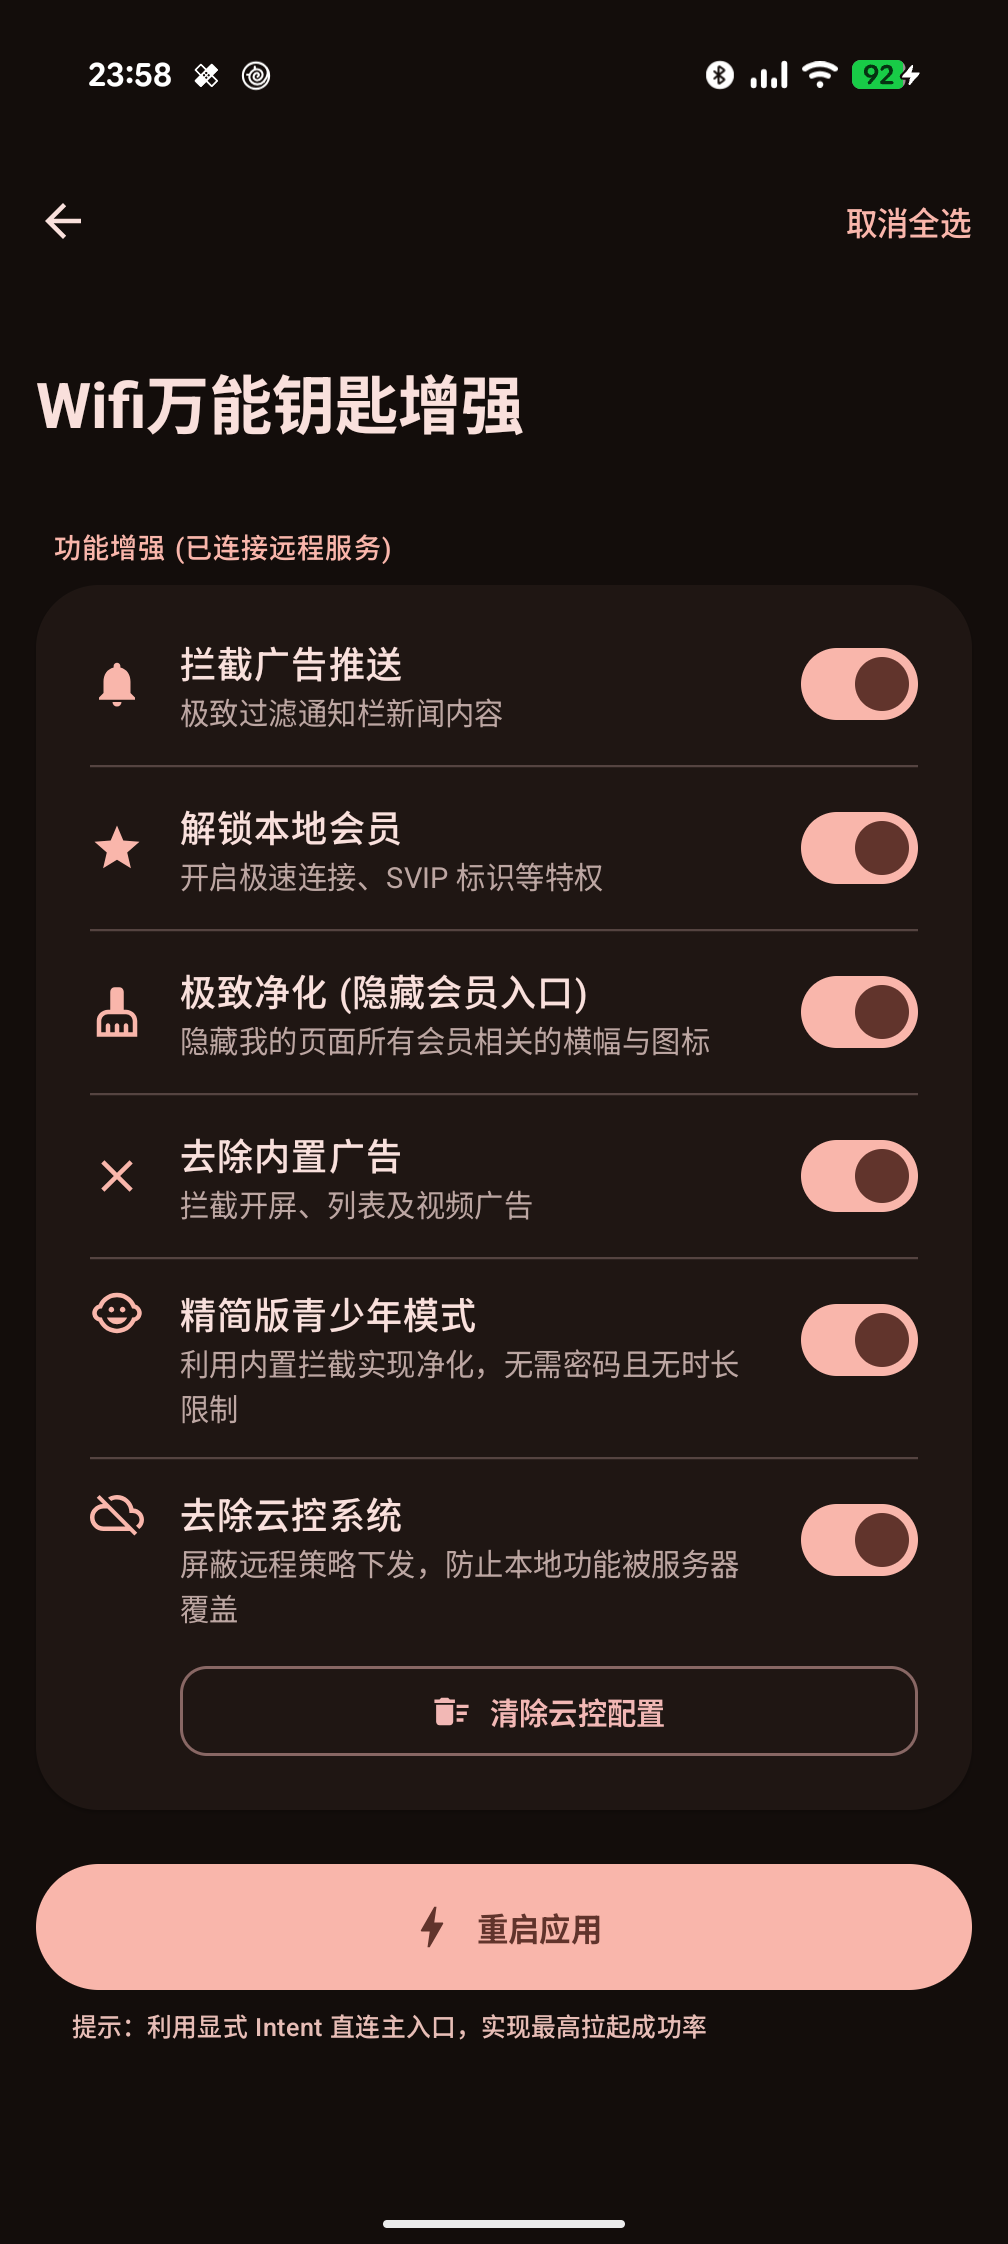
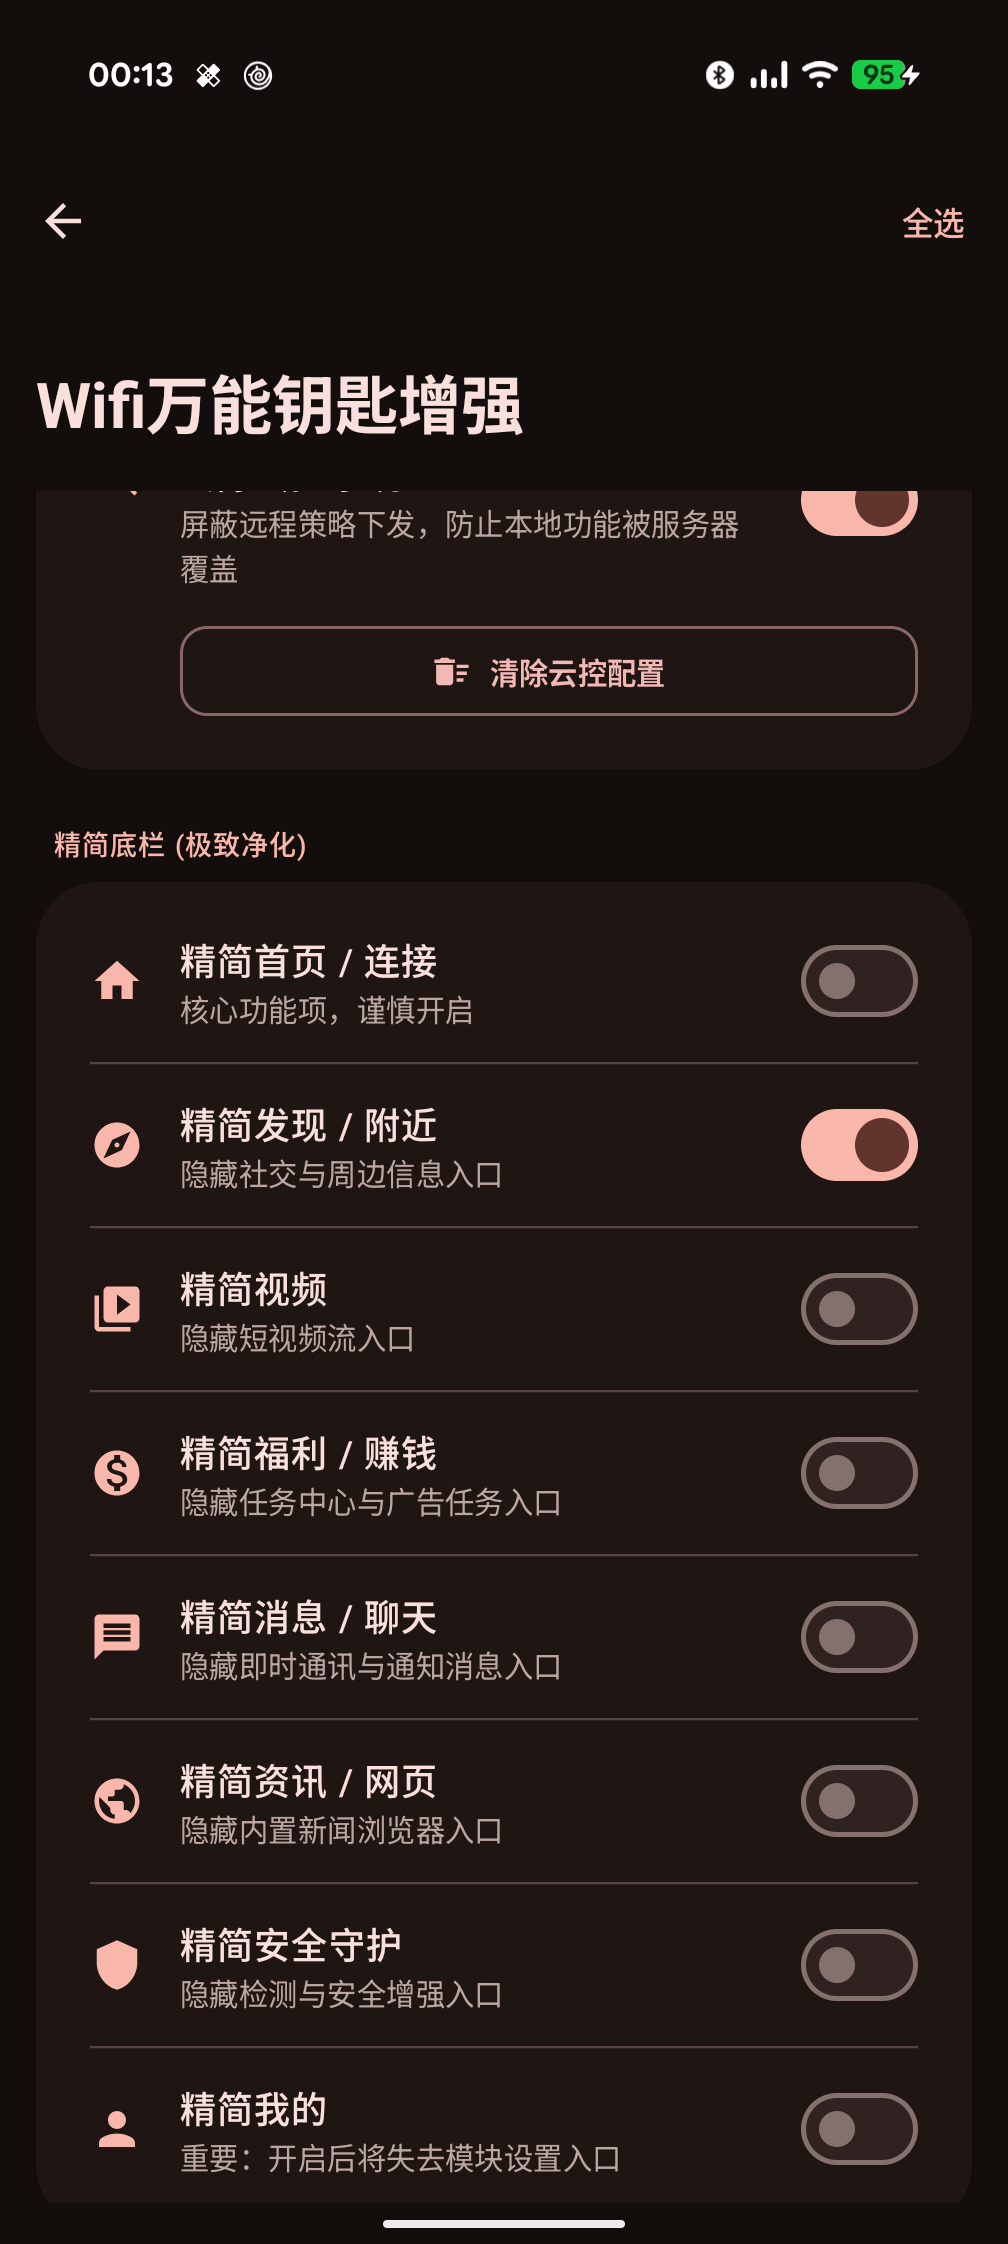
Implement Bottom Navigation reduction: customized tab hiding with high-risk countdown confirmation dialogs

diff --git a/app/src/main/java/com/ty/wifikeyxposed/SettingsActivity.kt b/app/src/main/java/com/ty/wifikeyxposed/SettingsActivity.kt
@@ -103,7 +103,23 @@ fun SettingsScreen(prefs: SharedPreferences, onBack: () -> Unit) {
     var liteTeenager by remember { mutableStateOf(prefs.getBoolean("lite_teenager", false)) }
     var removeCloudControl by remember { mutableStateOf(prefs.getBoolean("remove_cloud_control", false)) }
 
-    val allSelected = blockNews && unlockVip && deepCleanVip && removeAds && liteTeenager && removeCloudControl
+    // 底栏精简状态
+    var hideHome by remember { mutableStateOf(prefs.getBoolean("hide_tab_home", false)) }
+    var hideNearby by remember { mutableStateOf(prefs.getBoolean("hide_tab_nearby", false)) }
+    var hideVideo by remember { mutableStateOf(prefs.getBoolean("hide_tab_video", false)) }
+    var hideWelfare by remember { mutableStateOf(prefs.getBoolean("hide_tab_welfare", false)) }
+    var hideIm by remember { mutableStateOf(prefs.getBoolean("hide_tab_im", false)) }
+    var hideWeb by remember { mutableStateOf(prefs.getBoolean("hide_tab_web", false)) }
+    var hideGuard by remember { mutableStateOf(prefs.getBoolean("hide_tab_guard", false)) }
+    var hideMe by remember { mutableStateOf(prefs.getBoolean("hide_tab_me", false)) }
+
+    // 对话框状态
+    var showHomeWarning by remember { mutableStateOf(false) }
+    var showMeWarning by remember { mutableStateOf(false) }
+
+    val allSelected = blockNews && unlockVip && deepCleanVip && removeAds && liteTeenager && removeCloudControl &&
+            hideNearby && hideVideo && hideWelfare && hideIm && hideWeb && hideGuard
+            // 注意：根据要求，全选默认不包含 hideHome 和 hideMe
 
     Scaffold(
         topBar = {
@@ -122,12 +138,29 @@ fun SettingsScreen(prefs: SharedPreferences, onBack: () -> Unit) {
                         deepCleanVip = target
                         removeAds = target
                         liteTeenager = target
+                        removeCloudControl = target
+                        
+                        hideNearby = target
+                        hideVideo = target
+                        hideWelfare = target
+                        hideIm = target
+                        hideWeb = target
+                        hideGuard = target
+
                         prefs.edit().run {
                             putBoolean("block_news", target)
                             putBoolean("unlock_vip", target)
                             putBoolean("deep_clean_vip", target)
                             putBoolean("remove_ads", target)
                             putBoolean("lite_teenager", target)
+                            putBoolean("remove_cloud_control", target)
+                            
+                            putBoolean("hide_tab_nearby", target)
+                            putBoolean("hide_tab_video", target)
+                            putBoolean("hide_tab_welfare", target)
+                            putBoolean("hide_tab_im", target)
+                            putBoolean("hide_tab_web", target)
+                            putBoolean("hide_tab_guard", target)
                             apply()
                         }
                     }) {
@@ -248,6 +281,86 @@ fun SettingsScreen(prefs: SharedPreferences, onBack: () -> Unit) {
 
             Spacer(modifier = Modifier.height(24.dp))
 
+            Text(
+                "精简底栏 (极致净化)",
+                style = MaterialTheme.typography.labelMedium,
+                color = MaterialTheme.colorScheme.primary,
+                modifier = Modifier.padding(bottom = 8.dp, start = 8.dp)
+            )
+
+            ElevatedCard(
+                shape = MaterialTheme.shapes.extraLarge,
+                modifier = Modifier.fillMaxWidth()
+            ) {
+                Column(modifier = Modifier.padding(8.dp)) {
+                    SettingItem(
+                        title = "精简首页 / 连接",
+                        subtitle = "核心功能项，谨慎开启",
+                        icon = Icons.Default.Home,
+                        checked = hideHome,
+                        onCheckedChange = { if (it) showHomeWarning = true else { hideHome = false; prefs.edit().putBoolean("hide_tab_home", false).apply() } }
+                    )
+                    HorizontalDivider(modifier = Modifier.padding(horizontal = 16.dp))
+                    SettingItem(
+                        title = "精简发现 / 附近",
+                        subtitle = "隐藏社交与周边信息入口",
+                        icon = Icons.Default.Explore,
+                        checked = hideNearby,
+                        onCheckedChange = { hideNearby = it; prefs.edit().putBoolean("hide_tab_nearby", it).apply() }
+                    )
+                    HorizontalDivider(modifier = Modifier.padding(horizontal = 16.dp))
+                    SettingItem(
+                        title = "精简视频",
+                        subtitle = "隐藏短视频流入口",
+                        icon = Icons.Default.VideoLibrary,
+                        checked = hideVideo,
+                        onCheckedChange = { hideVideo = it; prefs.edit().putBoolean("hide_tab_video", it).apply() }
+                    )
+                    HorizontalDivider(modifier = Modifier.padding(horizontal = 16.dp))
+                    SettingItem(
+                        title = "精简福利 / 赚钱",
+                        subtitle = "隐藏任务中心与广告任务入口",
+                        icon = Icons.Default.MonetizationOn,
+                        checked = hideWelfare,
+                        onCheckedChange = { hideWelfare = it; prefs.edit().putBoolean("hide_tab_welfare", it).apply() }
+                    )
+                    HorizontalDivider(modifier = Modifier.padding(horizontal = 16.dp))
+                    SettingItem(
+                        title = "精简消息 / 聊天",
+                        subtitle = "隐藏即时通讯与通知消息入口",
+                        icon = Icons.Default.Message,
+                        checked = hideIm,
+                        onCheckedChange = { hideIm = it; prefs.edit().putBoolean("hide_tab_im", it).apply() }
+                    )
+                    HorizontalDivider(modifier = Modifier.padding(horizontal = 16.dp))
+                    SettingItem(
+                        title = "精简资讯 / 网页",
+                        subtitle = "隐藏内置新闻浏览器入口",
+                        icon = Icons.Default.Public,
+                        checked = hideWeb,
+                        onCheckedChange = { hideWeb = it; prefs.edit().putBoolean("hide_tab_web", it).apply() }
+                    )
+                    HorizontalDivider(modifier = Modifier.padding(horizontal = 16.dp))
+                    SettingItem(
+                        title = "精简安全守护",
+                        subtitle = "隐藏检测与安全增强入口",
+                        icon = Icons.Default.Shield,
+                        checked = hideGuard,
+                        onCheckedChange = { hideGuard = it; prefs.edit().putBoolean("hide_tab_guard", it).apply() }
+                    )
+                    HorizontalDivider(modifier = Modifier.padding(horizontal = 16.dp))
+                    SettingItem(
+                        title = "精简我的",
+                        subtitle = "重要：开启后将失去模块设置入口",
+                        icon = Icons.Default.Person,
+                        checked = hideMe,
+                        onCheckedChange = { if (it) showMeWarning = true else { hideMe = false; prefs.edit().putBoolean("hide_tab_me", false).apply() } }
+                    )
+                }
+            }
+
+            Spacer(modifier = Modifier.height(24.dp))
+
             Button(
                 onClick = {
                     val packageName = "com.snda.wifilocating"
@@ -293,6 +406,80 @@ fun SettingsScreen(prefs: SharedPreferences, onBack: () -> Unit) {
                 modifier = Modifier.padding(top = 8.dp, start = 16.dp)
             )
         }
+    }
+
+    // 警告对话框：精简首页
+    if (showHomeWarning) {
+        var countdown by remember { mutableIntStateOf(3) }
+        LaunchedEffect(Unit) {
+            while (countdown > 0) {
+                kotlinx.coroutines.delay(1000)
+                countdown--
+            }
+        }
+        AlertDialog(
+            onDismissRequest = { showHomeWarning = false },
+            title = { Text("风险提示") },
+            text = { Text("开启后将可能失去软件主功能，你确定要开启吗？") },
+            confirmButton = {
+                Button(
+                    onClick = {
+                        hideHome = true
+                        prefs.edit().putBoolean("hide_tab_home", true).apply()
+                        showHomeWarning = false
+                    },
+                    enabled = countdown == 0,
+                    colors = ButtonDefaults.buttonColors(
+                        containerColor = if (countdown == 0) MaterialTheme.colorScheme.error else MaterialTheme.colorScheme.surfaceVariant,
+                        contentColor = if (countdown == 0) MaterialTheme.colorScheme.onError else MaterialTheme.colorScheme.onSurfaceVariant
+                    )
+                ) {
+                    Text(if (countdown > 0) "确定 (${countdown}s)" else "确定")
+                }
+            },
+            dismissButton = {
+                TextButton(onClick = { showHomeWarning = false }) {
+                    Text("取消")
+                }
+            }
+        )
+    }
+
+    // 警告对话框：精简我的
+    if (showMeWarning) {
+        var countdown by remember { mutableIntStateOf(3) }
+        LaunchedEffect(Unit) {
+            while (countdown > 0) {
+                kotlinx.coroutines.delay(1000)
+                countdown--
+            }
+        }
+        AlertDialog(
+            onDismissRequest = { showMeWarning = false },
+            title = { Text("风险提示") },
+            text = { Text("开启后将失去应用内进入模块的入口，确定要开启吗？") },
+            confirmButton = {
+                Button(
+                    onClick = {
+                        hideMe = true
+                        prefs.edit().putBoolean("hide_tab_me", true).apply()
+                        showMeWarning = false
+                    },
+                    enabled = countdown == 0,
+                    colors = ButtonDefaults.buttonColors(
+                        containerColor = if (countdown == 0) MaterialTheme.colorScheme.error else MaterialTheme.colorScheme.surfaceVariant,
+                        contentColor = if (countdown == 0) MaterialTheme.colorScheme.onError else MaterialTheme.colorScheme.onSurfaceVariant
+                    )
+                ) {
+                    Text(if (countdown > 0) "确定 (${countdown}s)" else "确定")
+                }
+            },
+            dismissButton = {
+                TextButton(onClick = { showMeWarning = false }) {
+                    Text("取消")
+                }
+            }
+        )
     }
 }
 

diff --git a/app/src/main/java/com/ty/wifikeyxposed/MainHook.java b/app/src/main/java/com/ty/wifikeyxposed/MainHook.java
@@ -4,8 +4,8 @@ package com.ty.wifikeyxposed;
  * 用户需求核心摘要 (CONTEXT RESTORE):
  * 1. 目标应用：WiFi万能钥匙 5.2.13 (com.snda.wifilocating)
  * 2. 核心功能：本地 SVIP 永久解锁、全模块去广告 (开屏/列表/视频)、MD3E 设置界面。
- * 3. 创新功能：精简版青少年模式、去除云控系统、一键清除云控缓存。
- * 4. 交互增强：实现稳定版免 Root 重启机制。
+ * 3. 创新功能：精简版青少年模式、去除云控系统、一键清除云控缓存、底栏极致精简。
+ * 4. 交互增强：实现稳定版免 Root 重启机制、高风险操作倒计时二次确认。
  * 5. 验证流程：每次更改后构建 APK，通过 ADB 安装，重启目标应用，查看 LSPosed 日志。
  * 6. 强制要求：所有更改必须进行 Git Commit。
  * 7. 行为规范：思考必须是中文，交流必须是中文。
@@ -93,14 +93,93 @@ public class MainHook extends XposedModule {
             hookAds(classLoader);
             hookTeenagerMode(classLoader);
             hookCloudControl(classLoader);
+            hookBottomNavigation(classLoader);
         } catch (Throwable e) {
             log(6, TAG, "Initialization error: " + e.getMessage());
         }
     }
 
+    /**
+     * 实现底栏精简功能
+     * 1. Hook 所有 View.setVisibility，如果是底栏按钮且配置为隐藏，则强制保持 GONE
+     * 2. 在 MainActivity 生命周期中主动刷新一次状态
+     */
+    private void hookBottomNavigation(ClassLoader classLoader) {
+        try {
+            Class<?> viewCls = classLoader.loadClass("android.view.View");
+            Method setVisibilityMethod = viewCls.getMethod("setVisibility", int.class);
+
+            hook(setVisibilityMethod).intercept(chain -> {
+                View view = (View) chain.getThisObject();
+                int id = view.getId();
+                if (id == View.NO_ID) return chain.proceed();
+
+                // 如果该 ID 属于我们想要隐藏的底栏项，且当前尝试设为 VISIBLE
+                int visibility = (int) chain.getArgs().get(0);
+                if (visibility == View.VISIBLE && shouldHideTab(view, id)) {
+                    return null; // 拦截，保持 GONE
+                }
+                return chain.proceed();
+            });
+
+            // 针对 MainActivity 生命周期执行主动隐藏
+            try {
+                Class<?> mainActivityCls = classLoader.loadClass("com.wifitutu.ui.main.MainActivity");
+                Method onResumeMethod = mainActivityCls.getDeclaredMethod("onResume");
+                hook(onResumeMethod).intercept(chain -> {
+                    Object result = chain.proceed();
+                    mainHandler.postDelayed(() -> refreshBottomTabs(chain.getThisObject()), 500);
+                    return result;
+                });
+            } catch (Exception ignored) {}
+
+        } catch (Exception e) {
+            log(6, TAG, "Failed to hook BottomNavigation: " + e.getMessage());
+        }
+    }
+
+    private boolean shouldHideTab(View v, int id) {
+        try {
+            // 通过资源名匹配，防止动态 ID 漂移
+            String name = v.getResources().getResourceEntryName(id);
+            if (name == null) return false;
+            
+            if ("navigation_home".equals(name)) return isFeatureEnabled("hide_tab_home", false);
+            if ("navigation_nearby".equals(name)) return isFeatureEnabled("hide_tab_nearby", false);
+            if ("navigation_video".equals(name)) return isFeatureEnabled("hide_tab_video", false);
+            if ("navigation_welfare".equals(name)) return isFeatureEnabled("hide_tab_welfare", false);
+            if ("navigation_im".equals(name)) return isFeatureEnabled("hide_tab_im", false);
+            if ("navigation_web".equals(name)) return isFeatureEnabled("hide_tab_web", false);
+            if ("navigation_guard".equals(name)) return isFeatureEnabled("hide_tab_guard", false);
+            if ("navigation_me".equals(name)) return isFeatureEnabled("hide_tab_me", false);
+        } catch (Exception ignored) {}
+        return false;
+    }
+
+    private void refreshBottomTabs(Object mainActivity) {
+        try {
+            android.app.Activity activity = (android.app.Activity) mainActivity;
+            View root = activity.getWindow().getDecorView();
+            String[] tabNames = {
+                "navigation_home", "navigation_nearby", "navigation_video", 
+                "navigation_welfare", "navigation_im", "navigation_web", 
+                "navigation_guard", "navigation_me"
+            };
+            
+            for (String name : tabNames) {
+                int id = activity.getResources().getIdentifier(name, "id", TARGET_PACKAGE);
+                if (id != 0) {
+                    View v = root.findViewById(id);
+                    if (v != null && shouldHideTab(v, id)) {
+                        v.setVisibility(View.GONE);
+                    }
+                }
+            }
+        } catch (Exception ignored) {}
+    }
+
     private void hookCloudControl(ClassLoader classLoader) {
         try {
-            // 1. 拦截远程配置接口
             try {
                 Class<?> remoteConfigCls = classLoader.loadClass(REMOTE_CONFIG_INTERFACE);
                 for (Method m : remoteConfigCls.getDeclaredMethods()) {
@@ -113,7 +192,6 @@ public class MainHook extends XposedModule {
                 }
             } catch (Exception ignored) {}
 
-            // 2. 中和广告策略中的太极值
             try {
                 Class<?> adStrategyCls = classLoader.loadClass(AD_STRATEGY_CLASS);
                 Method getTaiChiMethod = adStrategyCls.getDeclaredMethod("getTaiChiValue");
@@ -123,7 +201,6 @@ public class MainHook extends XposedModule {
                 });
             } catch (Exception ignored) {}
 
-            // 3. 绕过 URI 云控拦截
             try {
                 Class<?> uriCheckerCls = classLoader.loadClass(URI_CHECKER_CLASS);
                 String[] checkMethods = {"h", "i", "k", "l", "m"};
@@ -174,7 +251,6 @@ public class MainHook extends XposedModule {
                 if (Build.VERSION.SDK_INT >= 34) {
                     context.registerReceiver(receiver, filter, Context.RECEIVER_EXPORTED);
                 } else {
-                    // 低版本系统使用显式 exported 标志
                     context.registerReceiver(receiver, filter);
                 }
                 return result;
@@ -192,14 +268,12 @@ public class MainHook extends XposedModule {
 
     private void clearCloudFiles(Context context) {
         try {
-            // 1. 清理 files 目录下的配置
             File filesDir = context.getFilesDir();
             String[] configPaths = {"probe", "config", "strategy", "mmkv"};
             for (String path : configPaths) {
                 deleteDir(new File(filesDir, path));
             }
             
-            // 2. 清理相关 SharedPreferences
             File spDir = new File(context.getApplicationInfo().dataDir, "shared_prefs");
             if (spDir.exists()) {
                 File[] files = spDir.listFiles();
